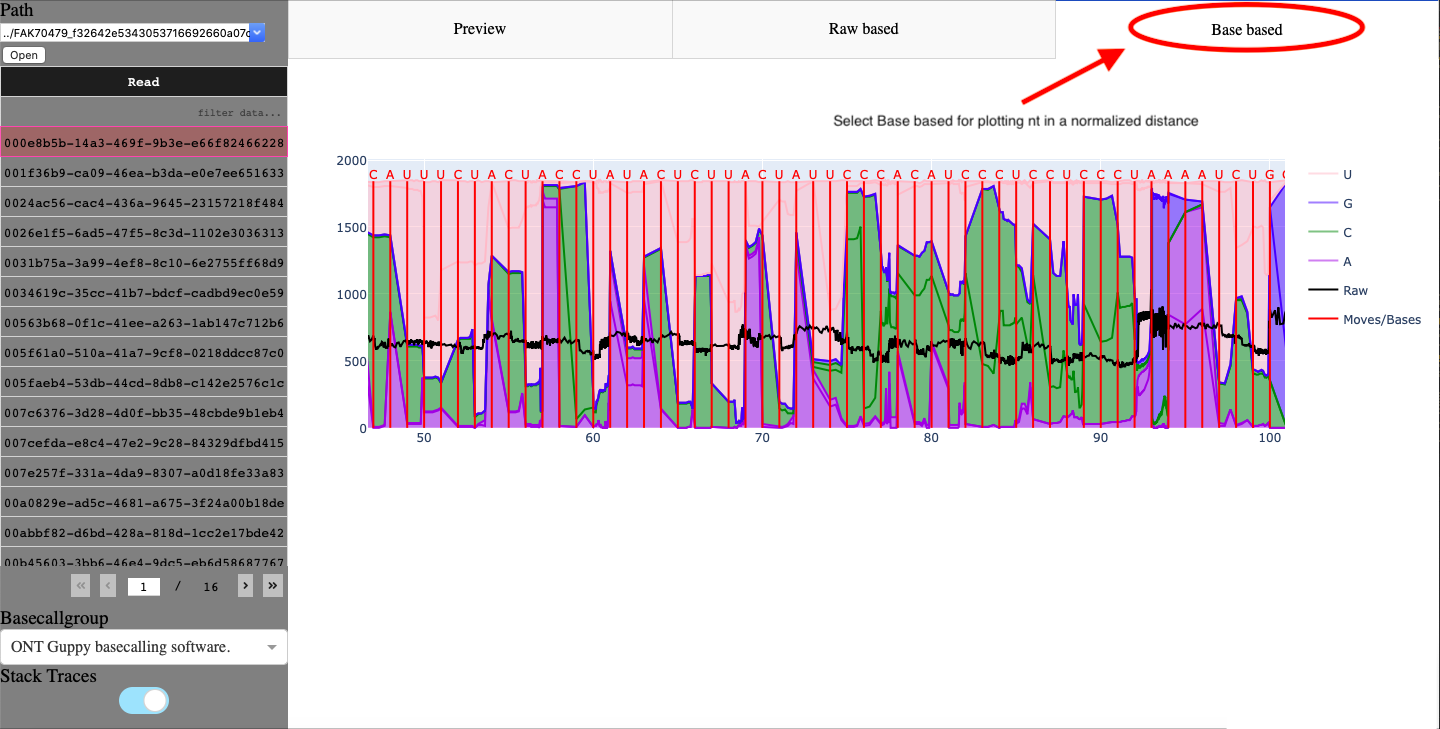
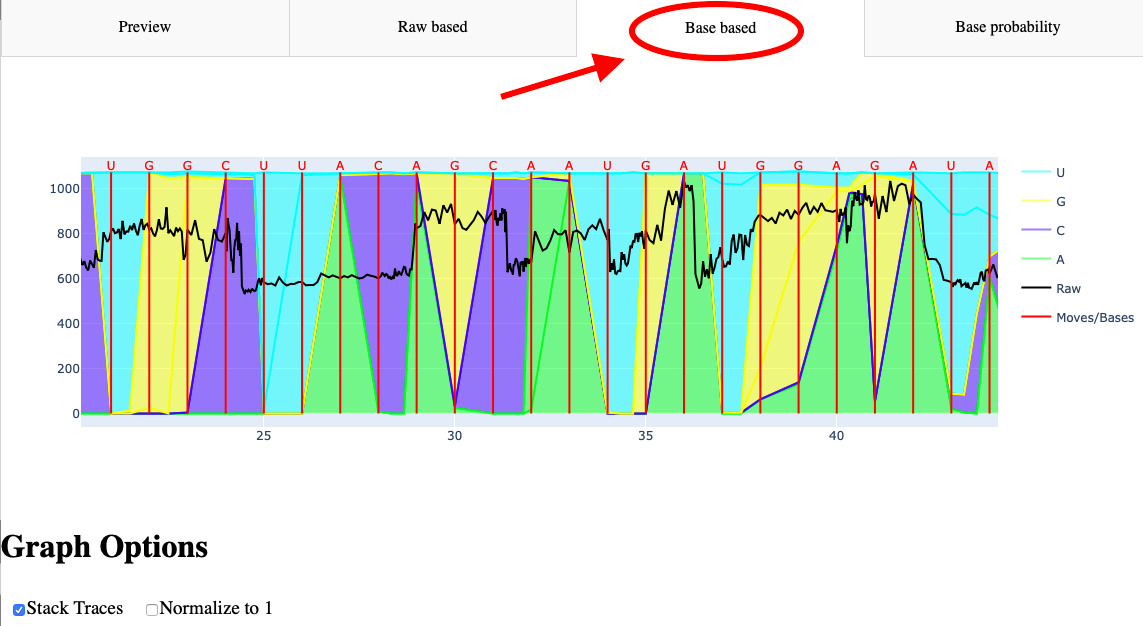
new pictures added

diff --git a/docs/ReadMe.md b/docs/ReadMe.md
@@ -5,7 +5,7 @@
 
  **SlaPPy** (**S**quigg**l**e **a**nd sequence **P**lotter in **Py**thon) is a browser based GUI to map sequence to Squiggle out of a fast5 files created by sequencing with Oxford Nanopore Technology (ONT). It also provides the possibility to visualize the probability for basecalling of different bases at a certain time or sequence position.
 
-## Clone repository
+## Cloning repository
 
 ```
 git clone git@github.com:Fabianexe/SlaPPy
@@ -43,7 +43,7 @@ Please choose the ONT Guppy basecall group.
 
 ![select_basecall_group](https://raw.githubusercontent.com/Fabianexe/SlaPPy/master/pictures/basecallgroup.png "select basecall group")
 
-## display options
+## Displaying options
 
 You can activate stack traces to display the probabilities for the different nucleotides.
 
@@ -72,3 +72,9 @@ It is also possible by double clicking on a certain nucleotide in the legend to 
 By selecting compare data on hover in the menu, you can display the traces at a certain position.
 
 ![compare data](https://raw.githubusercontent.com/Fabianexe/SlaPPy/master/pictures/compare_hover.png "compare data hover")
+
+## Baseprobability options
+
+
+
+## Output options
